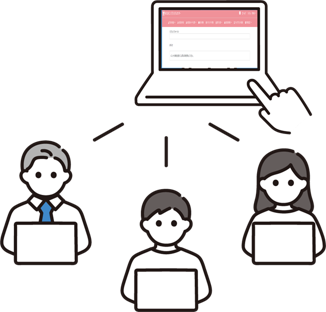
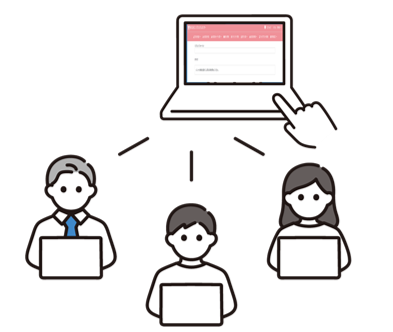
a

diff --git a/css/contract.css b/css/contract.css
@@ -117,71 +117,32 @@ body {
 
 /* ステップのレイアウト */
 
-.steps {
+.container {
     display: flex;
-    justify-content: flex-start; /* 左揃え */
-    align-items: flex-start; /* 上部揃えで位置を調整 */
-    margin-top: 40px;
-    gap: 40px; /* 要素間の余白 */
-    padding-left: 0px; /* ステップ全体を少し左に移動 */
+    justify-content: center;
 }
 
-.step {
-    text-align: left; /* ステップ要素内を左揃え */
-    width: 28%; /* 各ステップの幅を調整して改行を防ぐ */
-    display: flex;
-    flex-direction: column; /* 要素を縦に並べる */
-    justify-content: flex-start; /* 上部から配置 */
-    align-items: flex-start; /* 左揃え */
+.block-container{
+    text-align: center;
 }
 
-.step p {
-    margin-bottom: 10px; /* 画像とテキストの間に少し余白を設定 */
-    margin-top: 0; /* 上の余白はなし */
-    white-space: nowrap; /* 改行を防ぐ */
-    overflow: hidden;
-    text-overflow: ellipsis; /* テキストが長すぎる場合は「...」を表示 */
-    padding-left: 0px; /* p要素を左にずらす */
-    font-weight: bold; /* テキストを濃くする */
+.block-container p {
+    padding-left: 0px;
+    margin-bottom: 10px;
+    font-weight: bold;
 }
 
-
-
-/* 画像サイズを個別に調整可能にする */
-.step img {
-    width: 100%; /* 幅を親要素に合わせて調整 */
-    height: auto; /* 高さをアスペクト比を維持しながら自動調整 */
-    max-width: 400px; /* 必要に応じて最大幅を設定 */
-    max-height: 400px; /* 必要に応じて最大高さを設定 */
-    margin-top: 10px; /* 画像の上に少し余白を設定 */
+.block-container img{
+    height: 200px;
+    width: auto;
 }
 
-/* 矢印のスタイル（個別に調整可能に） */
-.arrow {
-    width: 140px; /* 矢印の幅を初期値として設定 */
-    height: 120px; /* 高さは自動調整 */
-    display: block;
-    margin: 30px 0 30px 30px; /* 矢印の左右に余白を追加 */
-    padding: 0; /* 矢印の余白をリセット */
-    max-width: 140px; /* 最大幅 */
-    max-height: 120px; /* 最大高さ */
+.arrow-container img {
+   width: 100px;
+   height: auto;
+   margin-top: 150px;
 }
 
-/* 矢印のサイズを個別に拡大可能に */
-.arrow img {
-    width: 150%; /* 親要素に合わせて幅を調整 */
-    height: auto; /* 高さをアスペクト比に基づいて自動調整 */
-    max-width: 100px; /* 必要に応じて最大幅を設定 */
-    max-height: 100px; /* 必要に応じて最大高さを設定 */
-}
-
-/* 画像サイズを統一するためのスタイル */
-.image-standard {
-    width: 200px; /* 画像の幅を200pxに統一 */
-    height: auto; /* 高さは自動調整 */
-    object-fit: contain; /* アスペクト比を維持しながら表示 */
-    margin: 10px; /* 画像間に余白を追加 */
-}
 /* フッター */
 .footer-container {
     background-color: rgb(65, 182, 230);

diff --git a/contract.html b/contract.html
@@ -41,31 +41,30 @@
            契約の締結が簡単になることで、業務の効率化を図れます。
         </p>
         
-        <div class="steps">
-            <div class="step">
-                <p>① 契約情報の提出依頼</p>
+        <div class="container">
+            <div class="block-container">
+                <p>①契約情報の提出依頼</p>
                 <img src="img/NotePC_Woman.png" alt="契約情報の提出依頼" class="image-standard">
             </div>
             
-            <!-- 矢印画像をステップ間に挿入 -->
-            <div class="arror">
-                <p></p>
+            <div class="arrow-container">
                 <img src="img/Right_Arror.png" alt="矢印" class="arrow">
             </div>
-            <div class="step">
-                <p>② 従業員様が自分で必要情報を入力</p>
+
+            <div class="block-container">
+                <p>②従業員様が自分で必要情報を入力</p>
                 <img src="img/NotePC_Touch1.png" alt="必要情報を入力" class="image-standard">
             </div>
         
-            <!-- 矢印画像をステップ間に挿入 -->
-            <div class="arror">
-                <p></p>
+            <div class="arrow-container">
                 <img src="img/Right_Arror.png" alt="矢印" class="arrow">
             </div>
-            <div class="step">
-                <p>③ 確認･各種手続きがカンタンに完了</p>
+
+            <div class="block-container">
+                <p>③確認･各種手続きがカンタンに完了</p>
                 <img src="img/DeskTop_Woman.png" alt="契約情報の提出依頼" class="image-standard">
             </div>
+            
         </div>
     </div>
 

diff --git a/css/business.css b/css/business.css
@@ -199,8 +199,8 @@ body {
 /* コンテンツのスタイル */
 .notice-body {
     color: #333;
-    font-size: 14px;
-    margin-top: 30px;
+    /* font-size: 14px; */
+    margin-top: 15px;
 }
 
 .notice-body p {
@@ -208,12 +208,12 @@ body {
     font-size: 14px;
     color: #333;
     margin-top: 0px;
+    margin-bottom: 5px;
 }
 
 .notice-body img {
-    width: 170px;
-    height: 110px;
-    margin-top: 5px;
+    width: 200px;
+    height: auto;
 }
 
 /* フッター */
